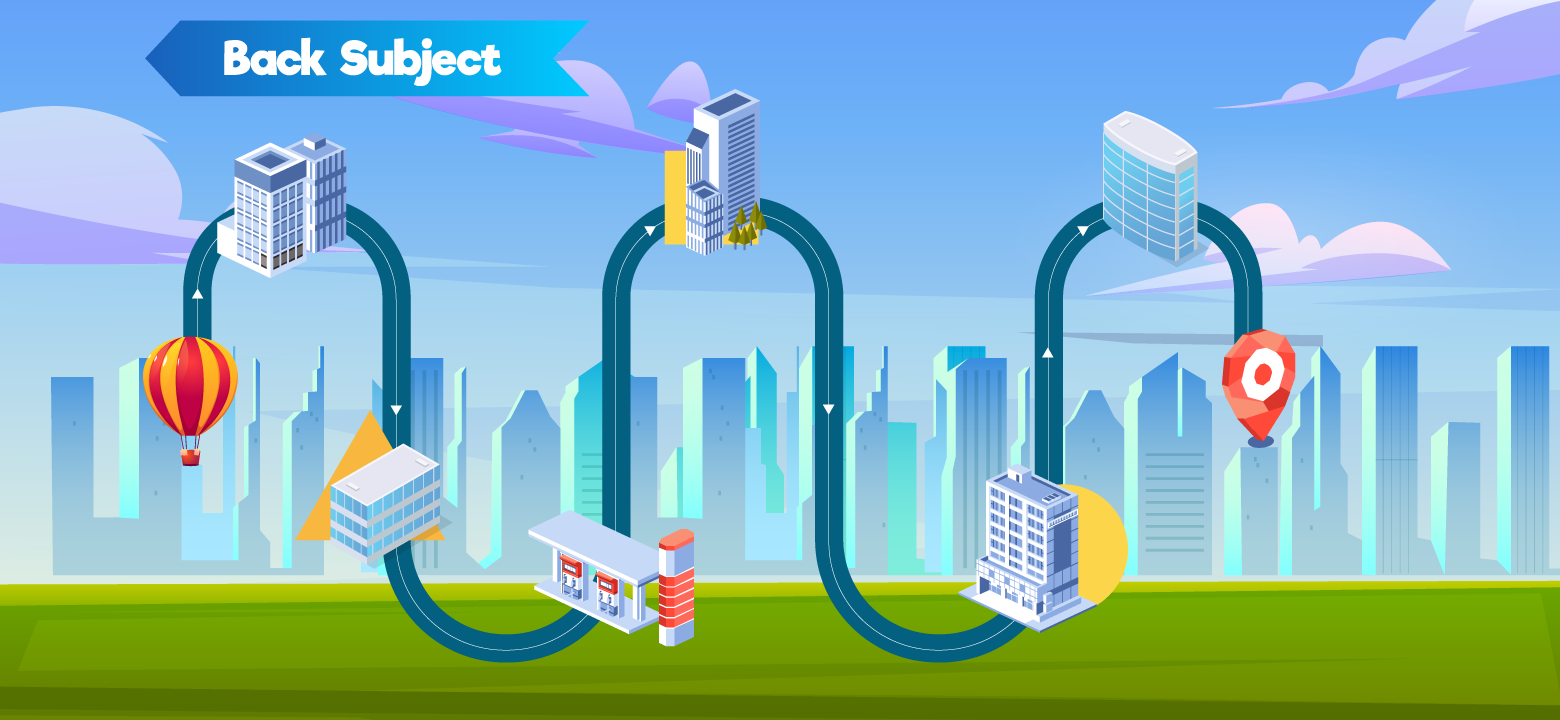
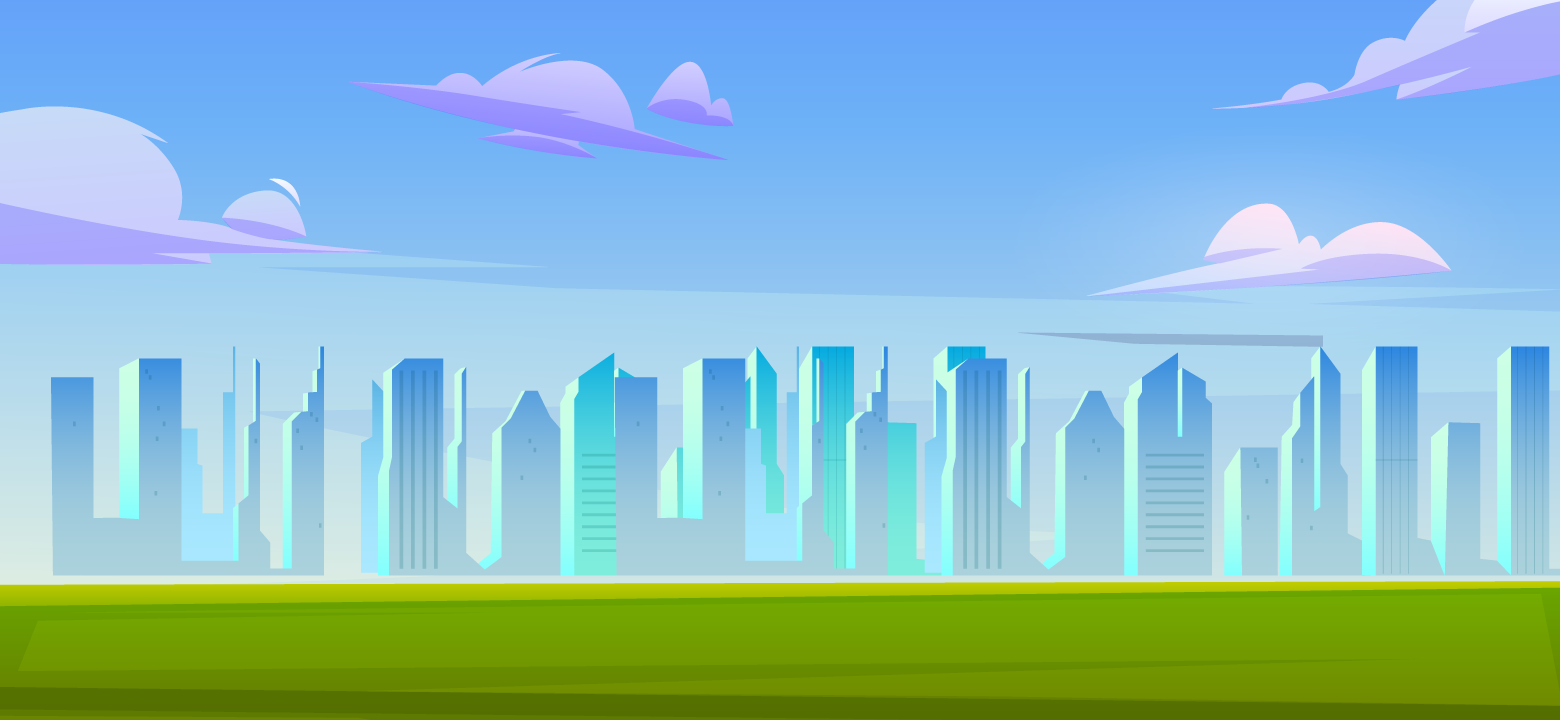
update bg of Math

Changed region(s): [[0.0923, 0.1222, 0.8308, 0.9472], [0.0923, 0.0306, 0.3692, 0.1528]]

diff --git a/assets/main/index.js b/assets/main/index.js
@@ -1,1 +1,1 @@
-window.__require=function e(t,i,c){function o(a,s){if(!i[a]){if(!t[a]){var r=a.split("/");if(r=r[r.length-1],!t[r]){var p="function"==typeof __require&&__require;if(!s&&p)return p(r,!0);if(n)return n(r,!0);throw new Error("Cannot find module '"+a+"'")}a=r}var m=i[a]={exports:{}};t[a][0].call(m.exports,function(e){return o(t[a][1][e]||e)},m,m.exports,e,t,i,c)}return i[a].exports}for(var n="function"==typeof __require&&__require,a=0;a<c.length;a++)o(c[a]);return o}({AutoResizeCanvas:[function(e,t){"use strict";cc._RF.push(t,"2d3784t4T9IZKw4bcexrDLA","AutoResizeCanvas"),cc.Class({extends:cc.Component,properties:{},onLoad:function(){var e=this.node.getComponent(cc.Canvas);if(e){var t=e.designResolution.width/e.designResolution.height,i=cc.winSize;i.width/i.height>t?(e.fitWidth=!1,e.fitHeight=!0):(e.fitWidth=!0,e.fitHeight=!1)}}}),cc._RF.pop()},{}],ComponentItem:[function(e,t){"use strict";cc._RF.push(t,"f99afcW8m5KO4OOtF7BqJC4","ComponentItem");var i=[{Symbol:"V",Name:"Vocabulary"},{Symbol:"L",Name:"Lecture"},{Symbol:"Pr",Name:"Practices - Game"},{Symbol:"R",Name:"Reading"},{Symbol:"Vi",Name:"Video"},{Symbol:"T",Name:"Quiz - Test"},{Symbol:"CB",Name:"Language skill"}];cc.Class({extends:cc.Component,properties:{componentSymbol:cc.Label,componentName:cc.Label},init:function(e){this._data=e;var t=e.Type;this.componentName.string=i[t].Name,this.componentSymbol.string=i[t].Symbol},onClick:function(){var e="Component"+this._data.Type;cc.director.loadScene(e)}}),cc._RF.pop()},{}],ComponentScene:[function(e,t){"use strict";cc._RF.push(t,"8e233MrSbNLibJtraMK3omy","ComponentScene"),cc.Class({extends:cc.Component,properties:{homeScene:"TopicScene",loading:cc.Node},start:function(){},HomeClick:function(){this.loadScene(this.homeScene)},loadScene:function(e){this.loading.active=!0,cc.director.preloadScene(e,function(){},function(t){null==t&&cc.director.loadScene(e)})}}),cc._RF.pop()},{}],GameInfo:[function(e,t){"use strict";cc._RF.push(t,"123d6QzzDlIzrjgbLiiF9gt","GameInfo");var i=function(){function e(){this.Mode=0,this.Subject=0,this.TopicData=[[{TopicId:0,Name:"Topic 1",Active:1,ImageId:0,Component:[0,1,2,3,4]},{TopicId:1,Name:"Topic 2",Active:1,ImageId:1,Component:[0,1,2,3]},{TopicId:2,Name:"Topic 3",Active:1,ImageId:2,Component:[0,1,2]},{TopicId:3,Name:"Topic 4",Active:1,ImageId:3,Component:[0,1,4,5,6]},{TopicId:4,Name:"Topic 5",Active:1,ImageId:4,Component:[0,1,2,3,4,5]},{TopicId:5,Name:"Topic 6",Active:1,ImageId:5,Component:[0,1,2,3,4,5,6]},{TopicId:6,Name:"Topic 7",Active:1,ImageId:6,Component:[0,1,2,3,4,5]},{TopicId:7,Name:"Topic 8",Active:1,ImageId:7,Component:[0,1,2,3,4,5,6]},{TopicId:8,Name:"Topic 9",Active:0,ImageId:0,Component:[0,1,2,3,4,5,6]}],[{TopicId:0,Name:"Topic 1",Active:1,ImageId:0,Component:[0,1,2,3,4]},{TopicId:1,Name:"Topic 2",Active:1,ImageId:1,Component:[0,1,2,3]},{TopicId:2,Name:"Topic 3",Active:1,ImageId:2,Component:[0,1,2]},{TopicId:3,Name:"Topic 4",Active:1,ImageId:3,Component:[0,1,4,5,6]},{TopicId:4,Name:"Topic 5",Active:1,ImageId:4,Component:[0,1,2,3,4,5]},{TopicId:5,Name:"Topic 6",Active:1,ImageId:5,Component:[0,1,2,3,4,5,6]}],[{TopicId:0,Name:"Topic 1",Active:1,ImageId:0,Component:[0,1,2,3,4]},{TopicId:1,Name:"Topic 2",Active:1,ImageId:1,Component:[0,1,2,3]},{TopicId:2,Name:"Topic 3",Active:1,ImageId:2,Component:[0,1,2]},{TopicId:3,Name:"Topic 4",Active:1,ImageId:3,Component:[0,1,4,5,6]},{TopicId:4,Name:"Topic 5",Active:1,ImageId:4,Component:[0,1,2,3,4,5]},{TopicId:5,Name:"Topic 6",Active:1,ImageId:5,Component:[0,1,2,3,4,5,6]},{TopicId:6,Name:"Topic 7",Active:1,ImageId:6,Component:[0,1,2,3,4,5]},{TopicId:7,Name:"Topic 8",Active:1,ImageId:7,Component:[0,1,2,3,4,5,6]},{TopicId:8,Name:"Topic 9",Active:0,ImageId:0,Component:[0,1,2,3,4,5,6]},{TopicId:9,Name:"Topic 10",Active:0,ImageId:1,Component:[0,1,2,3,4,6]},{TopicId:10,Name:"Topic 11",Active:0,ImageId:2,Component:[0,1,2,3,4,5,6]},{TopicId:11,Name:"Topic 12",Active:0,ImageId:3,Component:[0,1,4,5,6]}]],this.SettingInfo={MusicEnable:!0,SoundEnable:!0}}return e.getInstance=function(){return e._instance||(e._instance=new e),e._instance},e}();t.exports=i,cc._RF.pop()},{}],Loading:[function(e,t){"use strict";cc._RF.push(t,"280c3rsZJJKnZ9RqbALVwtK","Loading"),cc.Class({extends:cc.Component,properties:{label:{default:null,type:cc.Label},loadingBar:cc.ProgressBar,slider:cc.Slider},onLoad:function(){var e=this;this.label.string=this.text;var t=this;cc.director.preloadScene("LoginScene",function(e,i){var c=Math.floor(e/i*100);cc.log("---"+c),t.label.string="Loading "+c+"%",t.loadingBar.progress=c/100,t.slider.progress=c/100},function(t){null==t&&e.scheduleOnce(function(){cc.director.loadScene("LoginScene")},1)})},loadScene:function(e){var t=this;this.label.string=this.text;var i=this;cc.director.preloadScene(e,function(e,t){var c=Math.floor(e/t*100);cc.log("---"+c),i.label.string="Loading "+c+"%",i.loadingBar.progress=c/100,i.slider.progress=c/100},function(i){null==i&&t.scheduleOnce(function(){cc.director.loadScene(e)},2)})}}),cc._RF.pop()},{}],Login:[function(e,t){"use strict";cc._RF.push(t,"10d4dmnE+BK2q6uNiPEl08X","Login"),cc.Class({extends:cc.Component,properties:{loading:cc.Node},onLoad:function(){this.loading.active=!1},start:function(){},onLogin:function(){this.loading.active=!0,this.scheduleOnce(this.loginComplete,1)},loginComplete:function(){cc.director.loadScene("ProgramScene")}}),cc._RF.pop()},{}],PanelSettingComponent:[function(e,t){"use strict";cc._RF.push(t,"91393d9NtFMzYcBEtkEXHce","PanelSettingComponent");var i=e("GameInfo").getInstance(),c=["English","Math","Science"];cc.Class({extends:cc.Component,properties:{overlay:cc.Node,pnlSubject:cc.Node,otherMode:cc.Node,subjectName:cc.Label,imgCurrentMode:cc.Sprite,imgOtherMode:cc.Sprite,currentModeFrame:[cc.SpriteFrame],otherModeFrame:[cc.SpriteFrame],btnMode:cc.Button,btnSubject:cc.Button},onLoad:function(){var e=cc.director.getScene().name;"ProgramScene"==e&&(this.btnMode.interactable=!1,this.btnSubject.interactable=!1),"SubjectScene"==e&&(this.btnSubject.interactable=!1),this.otherMode.active=!1,this.overlay.active=!1,this.pnlSubject.active=!1,this._isModeActive=!1,this._isSubjectActive=!1,this.otherModeState=1,this.updateSetting()},updateSetting:function(){i&&(this.subjectName.string=c[i.Subject],0==i.Mode?(this.otherModeState=1,this.imgCurrentMode.spriteFrame=this.currentModeFrame[0],this.imgOtherMode.spriteFrame=this.otherModeFrame[1]):(this.otherModeState=0,this.imgCurrentMode.spriteFrame=this.currentModeFrame[1],this.imgOtherMode.spriteFrame=this.otherModeFrame[0]))},clickMode:function(){this._isModeActive?(this._isModeActive=!1,this.otherMode.active=!1,this.overlay.active=!1):(this._isModeActive=!0,this.otherMode.active=!0,this.overlay.active=!0),this._isSubjectActive&&(this._isSubjectActive=!1,this.pnlSubject.active=!1,this.overlay.active=!1)},clickOtherMode:function(){this._isModeActive=!1,this.otherMode.active=!1,this.overlay.active=!1,i&&(i.Mode=this.otherModeState),this.updateSetting()},clickSubject:function(){this._isSubjectActive?(this._isSubjectActive=!1,this.pnlSubject.active=!1,this.overlay.active=!1):(this._isSubjectActive=!0,this.pnlSubject.active=!0,this.overlay.active=!0),this._isModeActive&&(this._isModeActive=!1,this.otherMode.active=!1,this.overlay.active=!1)},choseSubject:function(e,t){if(this._isSubjectActive=!1,this.pnlSubject.active=!1,this.overlay.active=!1,t){if(i){i.Subject=parseInt(t);var c=new cc.Event.EventCustom("onChangeSubject",!0);cc.director.getScene().getChildByName("Canvas").dispatchEvent(c)}this.updateSetting()}},clickOverlay:function(){this.otherMode.active=!1,this.overlay.active=!1,this.pnlSubject.active=!1,this._isModeActive=!1,this._isSubjectActive=!1}}),cc._RF.pop()},{GameInfo:"GameInfo"}],ProgramScene:[function(e,t){"use strict";cc._RF.push(t,"d3f1e+C5W5P7Y+3u+o2oBOs","ProgramScene");var i=e("GameInfo").getInstance();cc.Class({extends:cc.Component,properties:{},start:function(){},onChooseMode:function(e,t){var c=parseInt(t);t&&i&&(i.Mode=c),cc.director.loadScene("SubjectScene")}}),cc._RF.pop()},{GameInfo:"GameInfo"}],SubjectScene:[function(e,t){"use strict";cc._RF.push(t,"a521akettNAJoLscI3gwV+3","SubjectScene");var i=e("GameInfo").getInstance();cc.Class({extends:cc.Component,properties:{homeScene:"ProgramScene",loading:cc.Node,levels:[cc.Node]},onLoad:function(){this.lvPos=[this.levels[0].position,this.levels[1].position,this.levels[2].position,this.levels[3].position,this.levels[4].position]},start:function(){},goTopic:function(e,t){t&&i&&(i.Subject=parseInt(t)),this.loading.active=!0,cc.director.preloadScene("TopicScene",function(){},function(e){null==e&&cc.director.loadScene("TopicScene")})},HomeClick:function(){cc.director.loadScene(this.homeScene)},onSubjectClick:function(e){var t=e.target;this.levels.forEach(function(e){e.stopAllActions(),e.active=!1,e.position=t.position});for(var i=0;i<5;i++)this.levels[i].active=!0,this.levels[i].runAction(cc.sequence(cc.delayTime(.2*i),cc.moveTo(.2,this.lvPos[i])))}}),cc._RF.pop()},{GameInfo:"GameInfo"}],TopicItem:[function(e,t){"use strict";cc._RF.push(t,"04274e8citB0p1lqKRtY+Cd","TopicItem");var i=e("GameInfo").getInstance();cc.Class({extends:cc.Component,properties:{imageListEnglish:[cc.SpriteFrame],imageListMath:[cc.SpriteFrame],imageListScience:[cc.SpriteFrame],image:cc.Sprite,totalComponent:cc.Label,topicName:cc.Label,star:cc.Node},onLoad:function(){},start:function(){},init:function(e){this.imgList=[this.imageListEnglish,this.imageListMath,this.imageListScience],this._data=e,this.image.spriteFrame=this.imgList[i.Subject][e.ImageId],this.totalComponent.string=this._data.Component.length,this.topicName.string=this._data.Name,this.node.getComponent(cc.Button).interactable=this._data.Active,this.star.active=e.Active},onClickTopic:function(){var e=new cc.Event.EventCustom("onClickTopic",!0);e.setUserData(this._data),cc.director.getScene().getChildByName("Canvas").dispatchEvent(e)}}),cc._RF.pop()},{GameInfo:"GameInfo"}],TopicListItem:[function(e,t){"use strict";cc._RF.push(t,"1884c+M4kFExZJawp/F1D6K","TopicListItem"),cc.Class({extends:cc.Component,properties:{itemNode:[cc.Node],itemPrefab:cc.Prefab},init:function(e){for(var t=0;t<e.length;t++){var i=cc.instantiate(this.itemPrefab);i.getComponent("TopicItem").init(e[t]),this.itemNode[t].addChild(i)}}}),cc._RF.pop()},{}],TopicScene:[function(e,t){"use strict";cc._RF.push(t,"30ce4qBfBpLJpMgisjEpDii","TopicScene");var i=e("GameInfo").getInstance();cc.Class({extends:cc.Component,properties:{firstItem:cc.Prefab,midleItem:cc.Prefab,lastItem:cc.Prefab,content:cc.Node,componentItem:cc.Prefab,panelComponent:cc.Node,topicName:cc.Label,componentContainer:cc.Node,homeScene:"SubjectScene",bg:cc.Sprite,bgSprite:[cc.SpriteFrame]},onLoad:function(){var e=this;e.listComponent=[],this.node.on("onClickTopic",function(t){var i=t.getUserData();t.stopPropagation(),e.onClickTopic(i)}),this.node.on("onChangeSubject",function(t){t.stopPropagation(),e.init(i.TopicData[i.Subject],i.Subject)}),this.init(i.TopicData[i.Subject],i.Subject)},start:function(){},init:function(e,t){if(e&&0!=e.length){this.bg.spriteFrame=this.bgSprite[t],this.content.removeAllChildren();var i=cc.instantiate(this.firstItem);i.getComponent("TopicListItem").init([e[0]]),this.content.addChild(i);for(var c=1;c<e.length-2;c+=3){var o=cc.instantiate(this.midleItem);o.getComponent("TopicListItem").init([e[c],e[c+1],e[c+2]]),this.content.addChild(o)}if(e.length>=2){var n=cc.instantiate(this.lastItem);n.getComponent("TopicListItem").init([e[e.length-1]]),this.content.addChild(n)}}},onClickTopic:function(e){this.componentContainer.removeAllChildren(!0),this.topicName.string=e.Name;for(var t=0;t<e.Component.length;t++){var i=cc.instantiate(this.componentItem),c={Type:e.Component[t],TopicId:e.TopicId};i.getComponent("ComponentItem").init(c),this.componentContainer.addChild(i)}this.onShow()},movePointAtAngle:function(e,t){var i=e*Math.PI/180;return cc.v2(Math.sin(i)*t,-Math.cos(i)*t)},onShow:function(){this.panelComponent.active=!0},onHide:function(){this.panelComponent.active=!1},onPanelClick:function(){this.onHide()},HomeClick:function(){cc.director.loadScene(this.homeScene)}}),cc._RF.pop()},{GameInfo:"GameInfo"}]},{},["AutoResizeCanvas","GameInfo","PanelSettingComponent","ComponentItem","ComponentScene","Loading","Login","ProgramScene","SubjectScene","TopicItem","TopicListItem","TopicScene"]);
+window.__require=function e(t,i,c){function o(a,s){if(!i[a]){if(!t[a]){var r=a.split("/");if(r=r[r.length-1],!t[r]){var p="function"==typeof __require&&__require;if(!s&&p)return p(r,!0);if(n)return n(r,!0);throw new Error("Cannot find module '"+a+"'")}a=r}var m=i[a]={exports:{}};t[a][0].call(m.exports,function(e){return o(t[a][1][e]||e)},m,m.exports,e,t,i,c)}return i[a].exports}for(var n="function"==typeof __require&&__require,a=0;a<c.length;a++)o(c[a]);return o}({AutoResizeCanvas:[function(e,t){"use strict";cc._RF.push(t,"2d3784t4T9IZKw4bcexrDLA","AutoResizeCanvas"),cc.Class({extends:cc.Component,properties:{},onLoad:function(){var e=this.node.getComponent(cc.Canvas);if(e){var t=e.designResolution.width/e.designResolution.height,i=cc.winSize;i.width/i.height>t?(e.fitWidth=!1,e.fitHeight=!0):(e.fitWidth=!0,e.fitHeight=!1)}}}),cc._RF.pop()},{}],ComponentItem:[function(e,t){"use strict";cc._RF.push(t,"f99afcW8m5KO4OOtF7BqJC4","ComponentItem");var i=[{Symbol:"V",Name:"Vocabulary"},{Symbol:"L",Name:"Lecture"},{Symbol:"Pr",Name:"Practices - Game"},{Symbol:"R",Name:"Reading"},{Symbol:"Vi",Name:"Video"},{Symbol:"T",Name:"Quiz - Test"},{Symbol:"CB",Name:"Language skill"}];cc.Class({extends:cc.Component,properties:{componentSymbol:cc.Label,componentName:cc.Label},init:function(e){this._data=e;var t=e.Type;this.componentName.string=i[t].Name,this.componentSymbol.string=i[t].Symbol},onClick:function(){var e="Component"+this._data.Type;cc.director.loadScene(e)}}),cc._RF.pop()},{}],ComponentScene:[function(e,t){"use strict";cc._RF.push(t,"8e233MrSbNLibJtraMK3omy","ComponentScene"),cc.Class({extends:cc.Component,properties:{homeScene:"TopicScene",loading:cc.Node},start:function(){},HomeClick:function(){this.loadScene(this.homeScene)},loadScene:function(e){this.loading.active=!0,cc.director.preloadScene(e,function(){},function(t){null==t&&cc.director.loadScene(e)})}}),cc._RF.pop()},{}],GameInfo:[function(e,t){"use strict";cc._RF.push(t,"123d6QzzDlIzrjgbLiiF9gt","GameInfo");var i=function(){function e(){this.Mode=0,this.Subject=0,this.TopicData=[[{TopicId:0,Name:"Topic 1",Active:1,ImageId:0,Component:[0,1,2,3,4]},{TopicId:1,Name:"Topic 2",Active:1,ImageId:1,Component:[0,1,2,3]},{TopicId:2,Name:"Topic 3",Active:1,ImageId:2,Component:[0,1,2]},{TopicId:3,Name:"Topic 4",Active:1,ImageId:3,Component:[0,1,4,5,6]},{TopicId:4,Name:"Topic 5",Active:1,ImageId:4,Component:[0,1,2,3,4,5]},{TopicId:5,Name:"Topic 6",Active:1,ImageId:5,Component:[0,1,2,3,4,5,6]},{TopicId:6,Name:"Topic 7",Active:1,ImageId:6,Component:[0,1,2,3,4,5]},{TopicId:7,Name:"Topic 8",Active:1,ImageId:7,Component:[0,1,2,3,4,5,6]},{TopicId:8,Name:"Topic 9",Active:0,ImageId:0,Component:[0,1,2,3,4,5,6]}],[{TopicId:0,Name:"Topic 1",Active:1,ImageId:0,Component:[0,1,2,3,4]},{TopicId:1,Name:"Topic 2",Active:1,ImageId:1,Component:[0,1,2,3]},{TopicId:2,Name:"Topic 3",Active:1,ImageId:2,Component:[0,1,2]},{TopicId:3,Name:"Topic 4",Active:1,ImageId:3,Component:[0,1,4,5,6]},{TopicId:4,Name:"Topic 5",Active:1,ImageId:4,Component:[0,1,2,3,4,5]},{TopicId:5,Name:"Topic 6",Active:1,ImageId:5,Component:[0,1,2,3,4,5,6]},{TopicId:6,Name:"Topic 7",Active:1,ImageId:6,Component:[0,1,2,3,4,5]},{TopicId:7,Name:"Topic 8",Active:1,ImageId:7,Component:[0,1,2,3,4,5,6]},{TopicId:8,Name:"Topic 9",Active:0,ImageId:4,Component:[0,1,2,3,4,5,6]}],[{TopicId:0,Name:"Topic 1",Active:1,ImageId:0,Component:[0,1,2,3,4]},{TopicId:1,Name:"Topic 2",Active:1,ImageId:1,Component:[0,1,2,3]},{TopicId:2,Name:"Topic 3",Active:1,ImageId:2,Component:[0,1,2]},{TopicId:3,Name:"Topic 4",Active:1,ImageId:3,Component:[0,1,4,5,6]},{TopicId:4,Name:"Topic 5",Active:1,ImageId:4,Component:[0,1,2,3,4,5]},{TopicId:5,Name:"Topic 6",Active:1,ImageId:5,Component:[0,1,2,3,4,5,6]},{TopicId:6,Name:"Topic 7",Active:1,ImageId:6,Component:[0,1,2,3,4,5]},{TopicId:7,Name:"Topic 8",Active:1,ImageId:7,Component:[0,1,2,3,4,5,6]},{TopicId:8,Name:"Topic 9",Active:0,ImageId:0,Component:[0,1,2,3,4,5,6]},{TopicId:9,Name:"Topic 10",Active:0,ImageId:1,Component:[0,1,2,3,4,6]},{TopicId:10,Name:"Topic 11",Active:0,ImageId:2,Component:[0,1,2,3,4,5,6]},{TopicId:11,Name:"Topic 12",Active:0,ImageId:3,Component:[0,1,4,5,6]}]],this.SettingInfo={MusicEnable:!0,SoundEnable:!0}}return e.getInstance=function(){return e._instance||(e._instance=new e),e._instance},e}();t.exports=i,cc._RF.pop()},{}],Loading:[function(e,t){"use strict";cc._RF.push(t,"280c3rsZJJKnZ9RqbALVwtK","Loading"),cc.Class({extends:cc.Component,properties:{label:{default:null,type:cc.Label},loadingBar:cc.ProgressBar,slider:cc.Slider},onLoad:function(){var e=this;this.label.string=this.text;var t=this;cc.director.preloadScene("LoginScene",function(e,i){var c=Math.floor(e/i*100);cc.log("---"+c),t.label.string="Loading "+c+"%",t.loadingBar.progress=c/100,t.slider.progress=c/100},function(t){null==t&&e.scheduleOnce(function(){cc.director.loadScene("LoginScene")},1)})},loadScene:function(e){var t=this;this.label.string=this.text;var i=this;cc.director.preloadScene(e,function(e,t){var c=Math.floor(e/t*100);cc.log("---"+c),i.label.string="Loading "+c+"%",i.loadingBar.progress=c/100,i.slider.progress=c/100},function(i){null==i&&t.scheduleOnce(function(){cc.director.loadScene(e)},2)})}}),cc._RF.pop()},{}],Login:[function(e,t){"use strict";cc._RF.push(t,"10d4dmnE+BK2q6uNiPEl08X","Login"),cc.Class({extends:cc.Component,properties:{loading:cc.Node},onLoad:function(){this.loading.active=!1},start:function(){},onLogin:function(){this.loading.active=!0,this.scheduleOnce(this.loginComplete,1)},loginComplete:function(){cc.director.loadScene("ProgramScene")}}),cc._RF.pop()},{}],PanelSettingComponent:[function(e,t){"use strict";cc._RF.push(t,"91393d9NtFMzYcBEtkEXHce","PanelSettingComponent");var i=e("GameInfo").getInstance(),c=["English","Math","Science"];cc.Class({extends:cc.Component,properties:{overlay:cc.Node,pnlSubject:cc.Node,otherMode:cc.Node,subjectName:cc.Label,imgCurrentMode:cc.Sprite,imgOtherMode:cc.Sprite,currentModeFrame:[cc.SpriteFrame],otherModeFrame:[cc.SpriteFrame],btnMode:cc.Button,btnSubject:cc.Button},onLoad:function(){var e=cc.director.getScene().name;"ProgramScene"==e&&(this.btnMode.interactable=!1,this.btnSubject.interactable=!1),"SubjectScene"==e&&(this.btnSubject.interactable=!1),this.otherMode.active=!1,this.overlay.active=!1,this.pnlSubject.active=!1,this._isModeActive=!1,this._isSubjectActive=!1,this.otherModeState=1,this.updateSetting()},updateSetting:function(){i&&(this.subjectName.string=c[i.Subject],0==i.Mode?(this.otherModeState=1,this.imgCurrentMode.spriteFrame=this.currentModeFrame[0],this.imgOtherMode.spriteFrame=this.otherModeFrame[1]):(this.otherModeState=0,this.imgCurrentMode.spriteFrame=this.currentModeFrame[1],this.imgOtherMode.spriteFrame=this.otherModeFrame[0]))},clickMode:function(){this._isModeActive?(this._isModeActive=!1,this.otherMode.active=!1,this.overlay.active=!1):(this._isModeActive=!0,this.otherMode.active=!0,this.overlay.active=!0),this._isSubjectActive&&(this._isSubjectActive=!1,this.pnlSubject.active=!1,this.overlay.active=!1)},clickOtherMode:function(){this._isModeActive=!1,this.otherMode.active=!1,this.overlay.active=!1,i&&(i.Mode=this.otherModeState),this.updateSetting()},clickSubject:function(){this._isSubjectActive?(this._isSubjectActive=!1,this.pnlSubject.active=!1,this.overlay.active=!1):(this._isSubjectActive=!0,this.pnlSubject.active=!0,this.overlay.active=!0),this._isModeActive&&(this._isModeActive=!1,this.otherMode.active=!1,this.overlay.active=!1)},choseSubject:function(e,t){if(this._isSubjectActive=!1,this.pnlSubject.active=!1,this.overlay.active=!1,t){if(i){i.Subject=parseInt(t);var c=new cc.Event.EventCustom("onChangeSubject",!0);cc.director.getScene().getChildByName("Canvas").dispatchEvent(c)}this.updateSetting()}},clickOverlay:function(){this.otherMode.active=!1,this.overlay.active=!1,this.pnlSubject.active=!1,this._isModeActive=!1,this._isSubjectActive=!1}}),cc._RF.pop()},{GameInfo:"GameInfo"}],ProgramScene:[function(e,t){"use strict";cc._RF.push(t,"d3f1e+C5W5P7Y+3u+o2oBOs","ProgramScene");var i=e("GameInfo").getInstance();cc.Class({extends:cc.Component,properties:{},start:function(){},onChooseMode:function(e,t){var c=parseInt(t);t&&i&&(i.Mode=c),cc.director.loadScene("SubjectScene")}}),cc._RF.pop()},{GameInfo:"GameInfo"}],SubjectScene:[function(e,t){"use strict";cc._RF.push(t,"a521akettNAJoLscI3gwV+3","SubjectScene");var i=e("GameInfo").getInstance();cc.Class({extends:cc.Component,properties:{homeScene:"ProgramScene",loading:cc.Node,levels:[cc.Node]},onLoad:function(){this.lvPos=[this.levels[0].position,this.levels[1].position,this.levels[2].position,this.levels[3].position,this.levels[4].position]},start:function(){},goTopic:function(e,t){t&&i&&(i.Subject=parseInt(t)),this.loading.active=!0,cc.director.preloadScene("TopicScene",function(){},function(e){null==e&&cc.director.loadScene("TopicScene")})},HomeClick:function(){cc.director.loadScene(this.homeScene)},onSubjectClick:function(e){var t=e.target;this.levels.forEach(function(e){e.stopAllActions(),e.active=!1,e.position=t.position});for(var i=0;i<5;i++)this.levels[i].active=!0,this.levels[i].runAction(cc.sequence(cc.delayTime(.2*i),cc.moveTo(.2,this.lvPos[i])))}}),cc._RF.pop()},{GameInfo:"GameInfo"}],TopicItem:[function(e,t){"use strict";cc._RF.push(t,"04274e8citB0p1lqKRtY+Cd","TopicItem");var i=e("GameInfo").getInstance();cc.Class({extends:cc.Component,properties:{imageListEnglish:[cc.SpriteFrame],imageListMath:[cc.SpriteFrame],imageListScience:[cc.SpriteFrame],image:cc.Sprite,totalComponent:cc.Label,topicName:cc.Label,star:cc.Node},onLoad:function(){},start:function(){},init:function(e){this.imgList=[this.imageListEnglish,this.imageListMath,this.imageListScience],this._data=e,this.image.spriteFrame=this.imgList[i.Subject][e.ImageId],this.totalComponent.string=this._data.Component.length,this.topicName.string=this._data.Name,this.node.getComponent(cc.Button).interactable=this._data.Active,this.star.active=e.Active},onClickTopic:function(){var e=new cc.Event.EventCustom("onClickTopic",!0);e.setUserData(this._data),cc.director.getScene().getChildByName("Canvas").dispatchEvent(e)}}),cc._RF.pop()},{GameInfo:"GameInfo"}],TopicListItem:[function(e,t){"use strict";cc._RF.push(t,"1884c+M4kFExZJawp/F1D6K","TopicListItem"),cc.Class({extends:cc.Component,properties:{itemNode:[cc.Node],itemPrefab:cc.Prefab},init:function(e){for(var t=0;t<e.length;t++){var i=cc.instantiate(this.itemPrefab);i.getComponent("TopicItem").init(e[t]),this.itemNode[t].addChild(i)}}}),cc._RF.pop()},{}],TopicScene:[function(e,t){"use strict";cc._RF.push(t,"30ce4qBfBpLJpMgisjEpDii","TopicScene");var i=e("GameInfo").getInstance();cc.Class({extends:cc.Component,properties:{firstItem:cc.Prefab,midleItem:cc.Prefab,lastItem:cc.Prefab,content:cc.Node,componentItem:cc.Prefab,panelComponent:cc.Node,topicName:cc.Label,componentContainer:cc.Node,homeScene:"SubjectScene",bg:cc.Sprite,bgSprite:[cc.SpriteFrame]},onLoad:function(){var e=this;e.listComponent=[],this.node.on("onClickTopic",function(t){var i=t.getUserData();t.stopPropagation(),e.onClickTopic(i)}),this.node.on("onChangeSubject",function(t){t.stopPropagation(),e.init(i.TopicData[i.Subject],i.Subject)}),this.init(i.TopicData[i.Subject],i.Subject)},start:function(){},init:function(e,t){if(e&&0!=e.length){this.bg.spriteFrame=this.bgSprite[t],this.content.removeAllChildren();var i=cc.instantiate(this.firstItem);i.getComponent("TopicListItem").init([e[0]]),this.content.addChild(i);for(var c=1;c<e.length-2;c+=3){var o=cc.instantiate(this.midleItem);o.getComponent("TopicListItem").init([e[c],e[c+1],e[c+2]]),this.content.addChild(o)}if(e.length>=2){var n=cc.instantiate(this.lastItem);n.getComponent("TopicListItem").init([e[e.length-1]]),this.content.addChild(n)}}},onClickTopic:function(e){this.componentContainer.removeAllChildren(!0),this.topicName.string=e.Name;for(var t=0;t<e.Component.length;t++){var i=cc.instantiate(this.componentItem),c={Type:e.Component[t],TopicId:e.TopicId};i.getComponent("ComponentItem").init(c),this.componentContainer.addChild(i)}this.onShow()},movePointAtAngle:function(e,t){var i=e*Math.PI/180;return cc.v2(Math.sin(i)*t,-Math.cos(i)*t)},onShow:function(){this.panelComponent.active=!0},onHide:function(){this.panelComponent.active=!1},onPanelClick:function(){this.onHide()},HomeClick:function(){cc.director.loadScene(this.homeScene)}}),cc._RF.pop()},{GameInfo:"GameInfo"}]},{},["AutoResizeCanvas","GameInfo","PanelSettingComponent","ComponentItem","ComponentScene","Loading","Login","ProgramScene","SubjectScene","TopicItem","TopicListItem","TopicScene"]);
